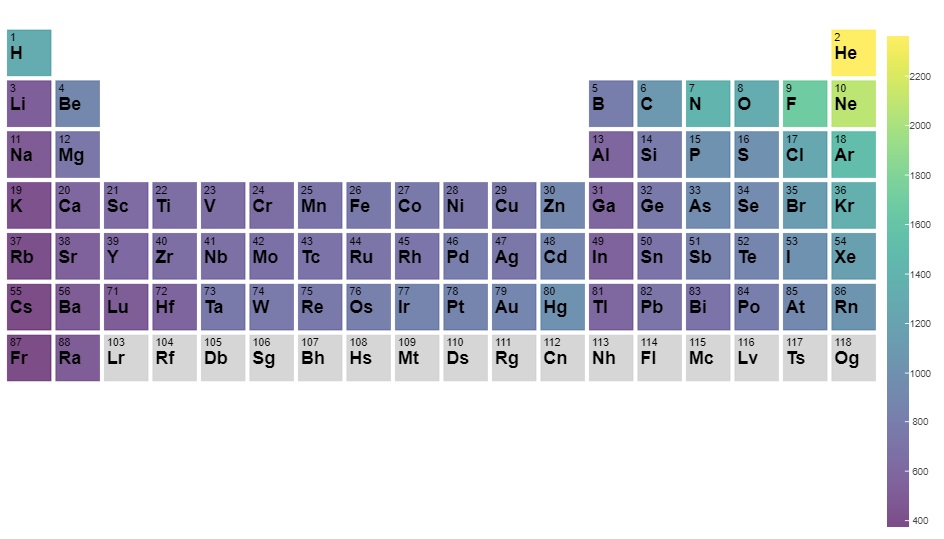
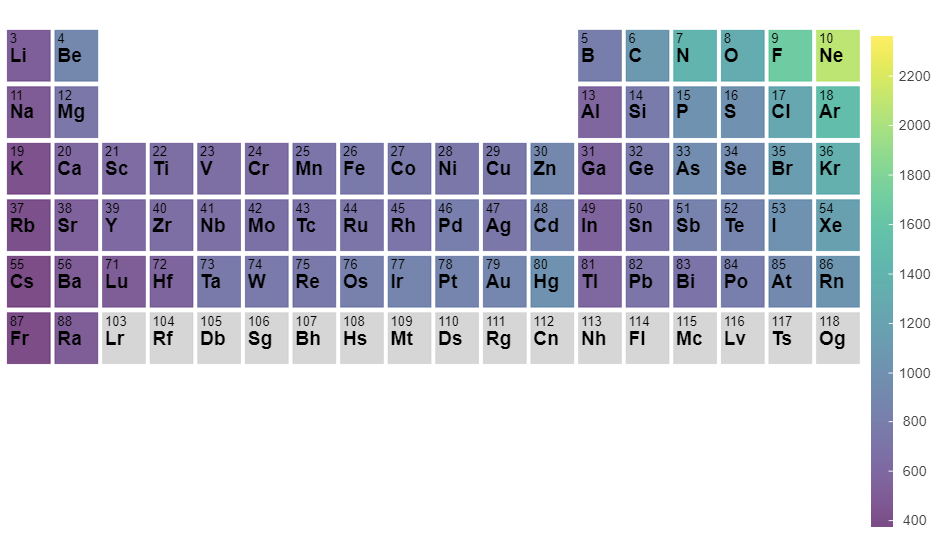
Add support for removing periods/groups

diff --git a/ptable_trends.py b/ptable_trends.py
@@ -27,6 +27,8 @@ parser.add_argument('--alpha',type=float,default=0.65,help='Alpha value '
 	'for color scale (ranges from 0 to 1)')
 parser.add_argument('--extended',default='True',choices=["False","false","True","true"],
 	help='Keyword for excluding (false) or including (true) the lanthanides and actinides')
+parser.add_argument('--period_remove',type=str,nargs='*',help='Period(s) to remove')
+parser.add_argument('--group_remove',type=str,nargs='*',help='Group(s) to remove')
 parser.add_argument('--log_scale',type=int,default=0,choices=range(0,2),
 	help='Keyword for linear (0) or logarithmic (1) color bar')
 parser.add_argument('--cbar_height',type=int,help='Height (in pixels) of color '
@@ -51,6 +53,8 @@ log_scale = args.log_scale
 cbar_height = args.cbar_height
 cbar_standoff = args.cbar_standoff
 cbar_fontsize = args.cbar_fontsize
+period_remove = args.period_remove
+group_remove = args.group_remove
 
 if not cbar_standoff:
 	cbar_standoff = 12
@@ -82,6 +86,16 @@ elif cmap_choice == 3:
 #Define number of and groups
 period_label = ['1', '2', '3', '4', '5', '6', '7']
 group_range = [str(x) for x in range(1, 19)]
+
+#Remove any groups or periods
+if group_remove:
+	for gr in group_remove:
+		gr = gr.strip()
+		group_range.remove(gr)
+if period_remove:
+	for pr in period_remove:
+		pr = pr.strip()
+		period_label.remove(pr)
 
 #Read in data from CSV file
 data_elements = []

diff --git a/README.md b/README.md
@@ -21,6 +21,10 @@ Use the `--alpha` flag followed by a float ranging from 0 to 1 to select the RGB
 
 Use the `--extended` flag followed by either `true` or `false` to select if you'd like to include the lanthanides and actinides. The default is `true` for inclusion of the lanthanides and actinides.
 
+Use the `--period_remove` flag followed by a list of integers to remove the corresponding periods from the periodic table.
+
+Use the `--group_remove` flag followed by a list of integers to remove the corresponding groups from the periodic table.
+
 Use the `--log_scale` flag followed by a either 0 or 1 to select if you want a linearized (0) color map and color bar or loagrithmic (1) color map and color bar. The default is 0 for a linearized scale.
 
 Use the `--cbar_height` flag followed by a positive integer to set the height (in pixels) of the color bar axis. The default is automatically chosen to be the full height of the figure.
@@ -50,6 +54,6 @@ Examples
 ![plot2](example_images/plot2.png)
 ---
 
-`python ptable_trends.py ionization_energies.csv --cmap_choice 3 --alpha 0.7 --extended false`
+`python ptable_trends.py ionization_energies.csv --cmap_choice 3 --alpha 0.7 --extended false --period_remove 1`
 
 ![plot4](example_images/plot3.png)
